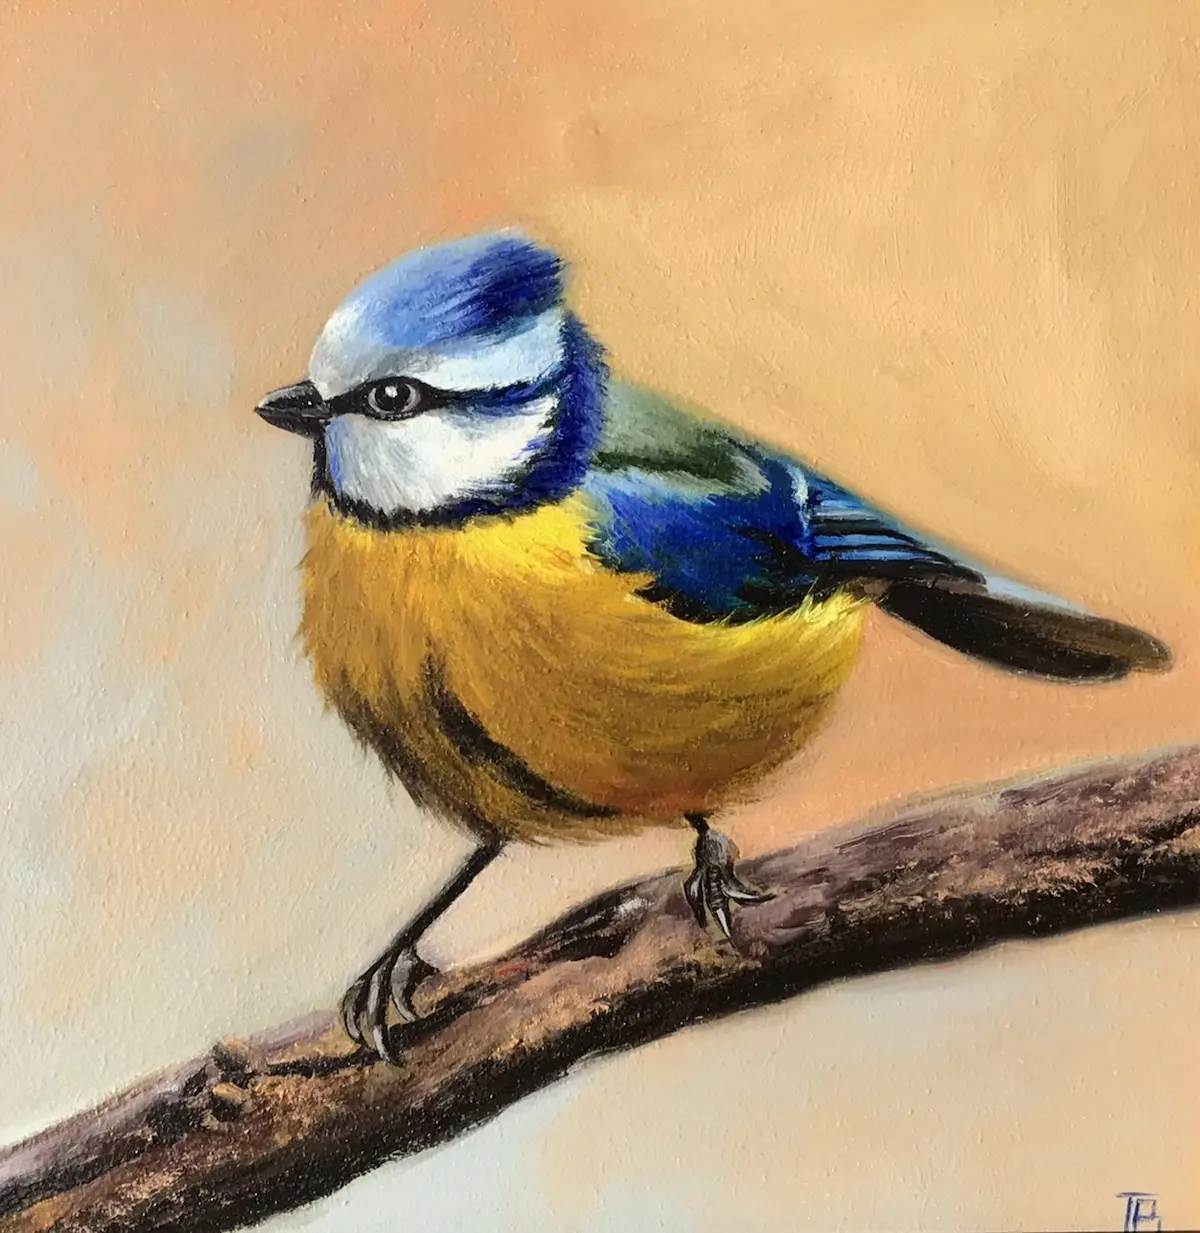
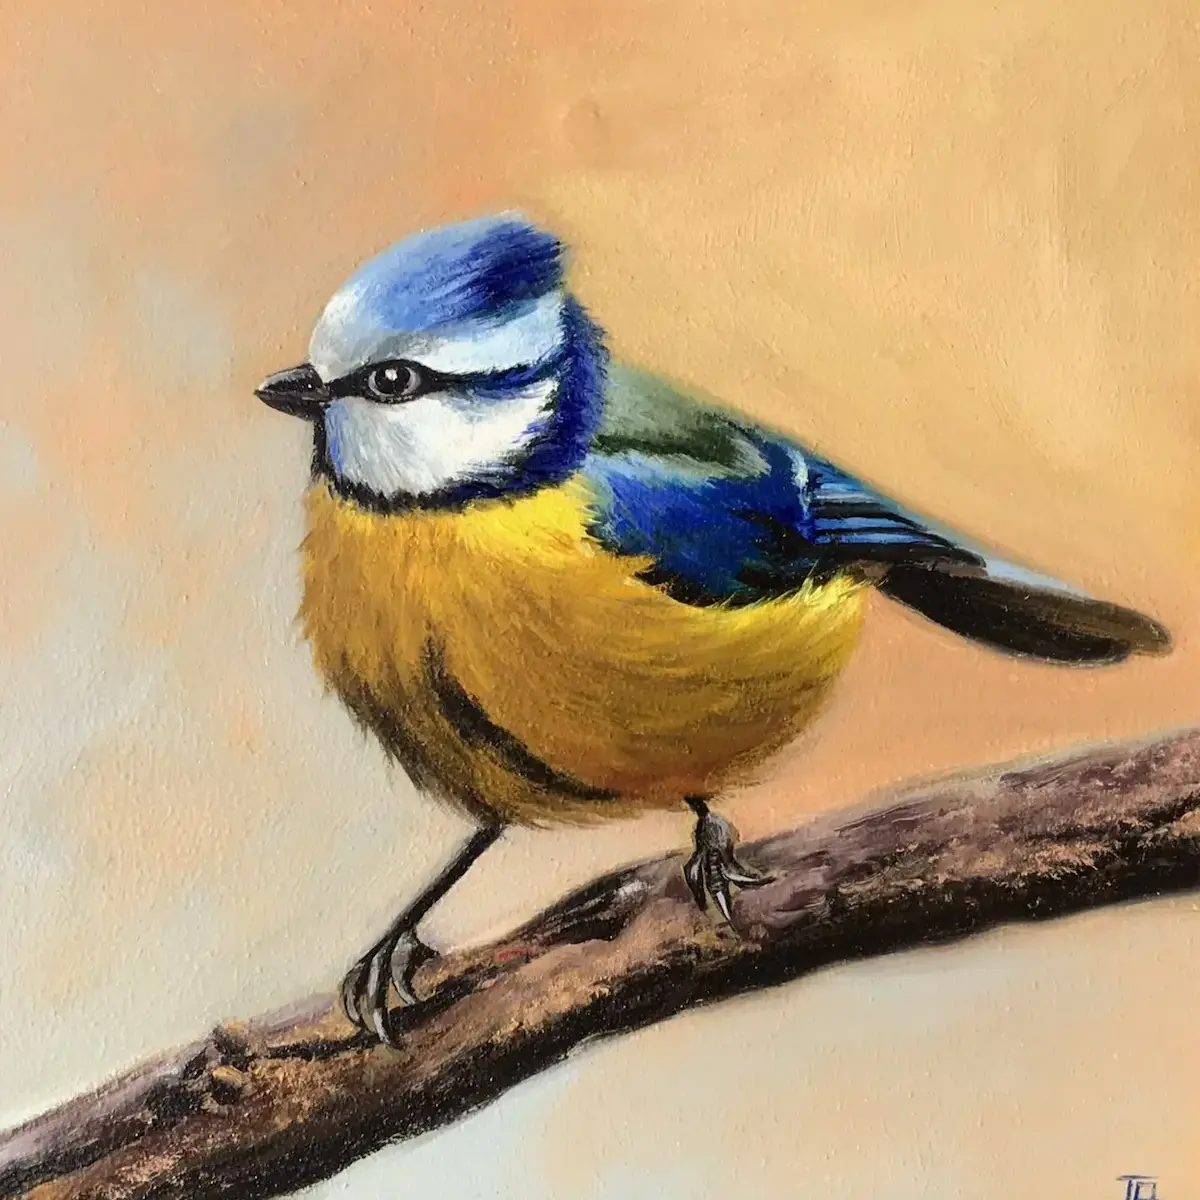
Birds sizes optimized

diff --git a/animals.html b/animals.html
@@ -4,7 +4,7 @@
   <meta charset="UTF-8">
   <meta name="viewport" content="width=device-width, initial-scale=1.0">
   <meta name="description" content="Original animal paintings by artist Irina Biunger. A collection of oil paintings inspired by deers, hares and other animals.">
-  <title>Bird Paintings | Irina Biunger</title>
+  <title>Animal Paintings | Irina Biunger</title>
   <link rel="preconnect" href="https://fonts.googleapis.com">
   <link rel="preconnect" href="https://fonts.gstatic.com" crossorigin>
   <link href="https://fonts.googleapis.com/css2?family=Cormorant+Garamond:wght@400;500;600&family=Inter:wght@300;400;500&display=swap" rel="stylesheet">
